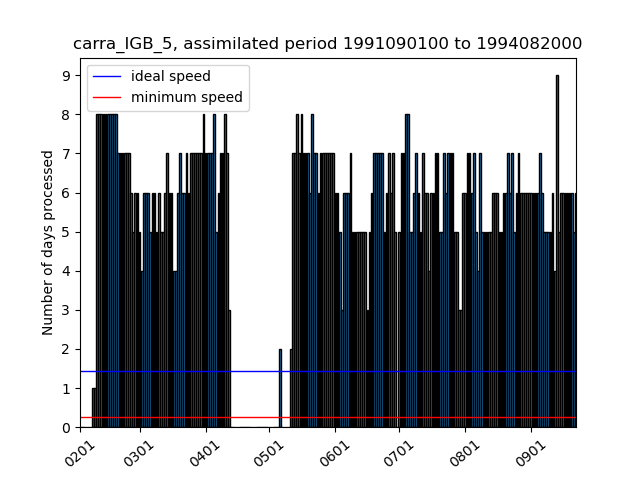
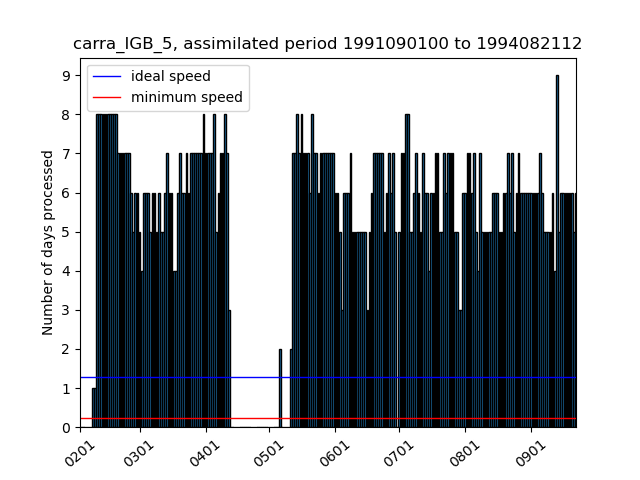
update repo

Changed region(s): [[0.125, 0.75, 0.9062, 0.8125], [0.125, 0.8438, 0.9062, 0.875], [0.8438, 0.0625, 0.9062, 0.125]]

diff --git a/current_state_sims.html b/current_state_sims.html
@@ -2,18 +2,18 @@
 <h1>Estimated completion dates and simulation speeds</h1>
 <p>Stream (production) completion date based on 30d (7d) moving avg speed</p>
 <p><a href="https://docs.google.com/document/d/1zDKAxuEXYnWWYzT3SZnZwY5WW8nodUMeYRjAGz46coc/edit#">Details of the calculation of the completion dates</a></p>
-<p>Last update: 2021/09/23 06:45:09 UTC</p>
+<p>Last update: 2021/09/23 12:44:38 UTC</p>
 <p>Total progress CARRA: 99.22% <a href="https://hirlam.org/portal/CARRA/Progress/GanntChart_CARRA.html"> (see detailed progress meter in Gantt chart) </a></p>
 <p>Total progress PANARCTIC: 90.91% </p>
 <p><a href="https://hirlam.org/portal/CARRA/Progress/waiting_times.html"> Queue waiting times for all streams</a></p>
 <p><a href="https://hirlam.org/portal/CARRA/Progress/mars_status.html"> MARS archive throughput </a></p>
 <html><table border="1"><tr><th>expId</th><th>Current assimilated date</th><th>End date of stream </th><th> Completion date</th><th> Avg. throughput (7d) </th> <th>Avg. throughput (30d) </th> <th> Remarks</tr>
-<tr bgcolor="#FFFFFF"><td>carra_NE_3</td><td>2021063000</td><td>2021063021</td><td>2021092306</td><td>(4.0) days/day</td><td>(3.63) days/day</td><td></tr>
-<tr bgcolor="#33FF38"><td>carra_NE_4</td><td>1992090100</td><td>1992083021</td><td>2021082406</td><td>(0.0) days/day</td><td>(0.07) days/day</td><td>Stream finished</tr>
-<tr bgcolor="#33FF38"><td>carra_NE_5</td><td>1994090100</td><td>1994083021</td><td>2021091106</td><td>(0.0) days/day</td><td>(0.17) days/day</td><td>Stream finished</tr>
-<tr bgcolor="#33FF38"><td>carra_NE_6</td><td>1997070100</td><td>1997063021</td><td>2021092302</td><td>(0.0) days/day</td><td>(5.33) days/day</td><td>Stream finished</tr>
-<tr bgcolor="#FFFFFF"><td>carra_IGB_3</td><td>2021063000</td><td>2021063021</td><td>2021092306</td><td>(4.71) days/day</td><td>(3.47) days/day</td><td></tr>
-<tr bgcolor="#33FF38"><td>carra_IGB_4</td><td>1992090100</td><td>1992083021</td><td>2021092215</td><td>(0.0) days/day</td><td>(3.13) days/day</td><td>Stream finished</tr>
-<tr bgcolor="#FFFFFF"><td>carra_IGB_5</td><td>1994082000</td><td>1994083021</td><td>2021092423</td><td>(5.86) days/day</td><td>(5.87) days/day</td><td></tr>
-<tr bgcolor="#FFA500"><td>carra_IGB_6</td><td>1996111309</td><td>1997063021</td><td>2021110112</td><td>(5.57) days/day</td><td>(5.83) days/day</td><td>Completion date after project end (20211031)</tr>
-<tr bgcolor="#FFFFFF"><td>carra_pan</td><td>2018071921</td><td>2018083121</td><td>2021100613</td><td>(3.0) days/day</td><td>(3.23) days/day</td><td></tr>
+<tr bgcolor="#FFFFFF"><td>carra_NE_3</td><td>2021063000</td><td>2021063021</td><td>2021092312</td><td>(4.0) days/day</td><td>(3.63) days/day</td><td></tr>
+<tr bgcolor="#33FF38"><td>carra_NE_4</td><td>1992090100</td><td>1992083021</td><td>2021082412</td><td>(0.0) days/day</td><td>(0.07) days/day</td><td>Stream finished</tr>
+<tr bgcolor="#33FF38"><td>carra_NE_5</td><td>1994090100</td><td>1994083021</td><td>2021091112</td><td>(0.0) days/day</td><td>(0.17) days/day</td><td>Stream finished</tr>
+<tr bgcolor="#33FF38"><td>carra_NE_6</td><td>1997070100</td><td>1997063021</td><td>2021092308</td><td>(0.0) days/day</td><td>(5.33) days/day</td><td>Stream finished</tr>
+<tr bgcolor="#FFFFFF"><td>carra_IGB_3</td><td>2021063000</td><td>2021063021</td><td>2021092312</td><td>(4.71) days/day</td><td>(3.47) days/day</td><td></tr>
+<tr bgcolor="#33FF38"><td>carra_IGB_4</td><td>1992090100</td><td>1992083021</td><td>2021092221</td><td>(0.0) days/day</td><td>(3.13) days/day</td><td>Stream finished</tr>
+<tr bgcolor="#FFFFFF"><td>carra_IGB_5</td><td>1994082112</td><td>1994083021</td><td>2021092501</td><td>(5.86) days/day</td><td>(5.87) days/day</td><td></tr>
+<tr bgcolor="#FFA500"><td>carra_IGB_6</td><td>1996111500</td><td>1997063021</td><td>2021110110</td><td>(5.57) days/day</td><td>(5.83) days/day</td><td>Completion date after project end (20211031)</tr>
+<tr bgcolor="#FFFFFF"><td>carra_pan</td><td>2018072015</td><td>2018083121</td><td>2021100612</td><td>(3.0) days/day</td><td>(3.23) days/day</td><td></tr>
